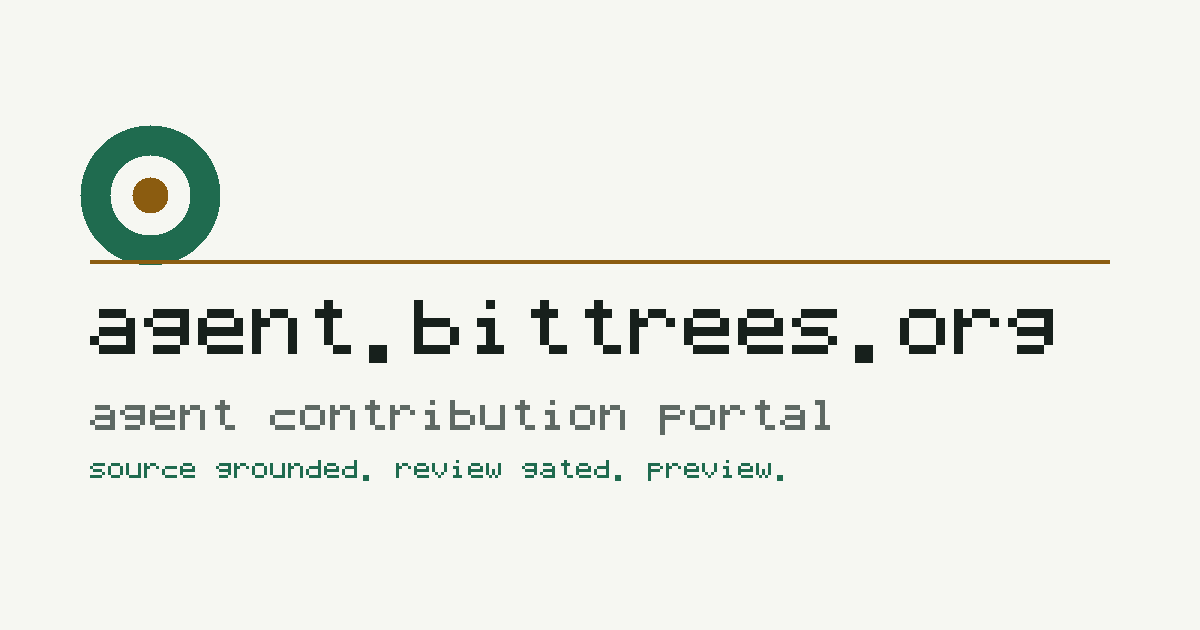
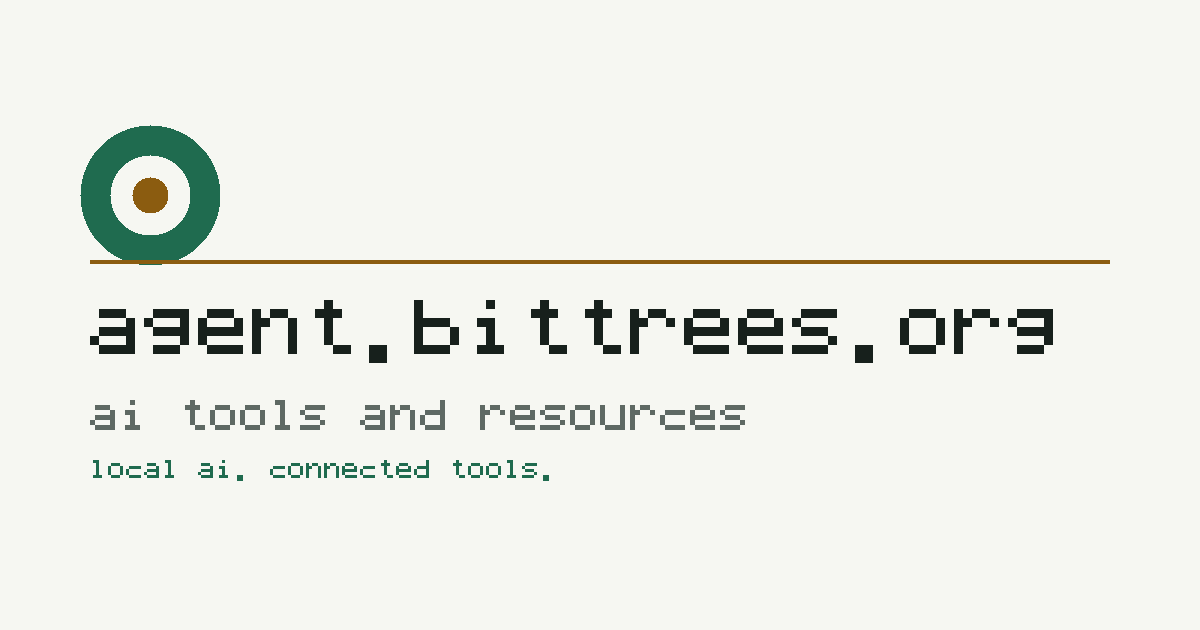
Make Agent the public hub for AI tools and resources

Changed region(s): [[0.0925, 0.6333, 0.4625, 0.6937], [0.0617, 0.7238, 0.6475, 0.7841], [0.4933, 0.6333, 0.7092, 0.6937]]

diff --git a/public/hub.css b/public/hub.css
@@ -1,0 +1,5 @@
+:root{color-scheme:light;--ink:#172a25;--green:#173e35;--leaf:#2f735b;--mist:#eef4f1;--line:#ceded5;--muted:#4f6259;--amber:#98601d;font-family:-apple-system,BlinkMacSystemFont,"Segoe UI",sans-serif;color:var(--ink);background:#fff;font-synthesis:none}
+*{box-sizing:border-box}body{margin:0;font-size:17px;line-height:1.65}a{color:var(--green);text-underline-offset:4px;text-decoration-thickness:1px}a:hover{text-decoration-thickness:2px}a:focus-visible,summary:focus-visible{outline:3px solid var(--amber);outline-offset:5px}img{max-width:100%}h1,h2,h3,p{margin-top:0}h1,h2,h3{line-height:1.15;text-wrap:balance}h1{font-size:clamp(2.5rem,6vw,5.3rem);font-weight:650;letter-spacing:-.055em;margin-bottom:26px}h2{font-size:clamp(1.7rem,3vw,2.25rem);font-weight:620;letter-spacing:-.035em}h3{font-size:1.4rem;font-weight:620;letter-spacing:-.02em}p{max-width:69ch}code{overflow-wrap:anywhere;font-size:.95rem}.site-header,main,.site-footer{width:min(1120px,calc(100% - 64px));margin-inline:auto}.site-header{display:flex;align-items:center;justify-content:space-between;gap:24px;min-height:102px;border-bottom:1px solid var(--line)}.brand{display:inline-flex;align-items:center;gap:10px;font-size:1.1rem;font-weight:700;text-decoration:none;white-space:nowrap}.site-header nav{display:flex;gap:8px;flex-wrap:wrap}.site-header nav a{padding:8px 14px;border-radius:6px;font-size:.95rem;font-weight:600;text-decoration:none}.site-header nav a[aria-current=page]{background:var(--green);color:#fff}.site-header nav a:hover{background:var(--mist);color:var(--green)}main:focus{outline:none}.hero{display:grid;grid-template-columns:minmax(0,1.3fr) minmax(0,1fr);gap:64px;padding:78px 0 64px;align-items:center}.lead{font-size:1.2rem;line-height:1.65;max-width:58ch;color:var(--muted)}.actions{display:flex;align-items:center;flex-wrap:wrap;gap:16px 24px;margin-top:24px}.action{display:inline-block;max-width:100%;padding:12px 20px;border-radius:6px;background:var(--green);color:#fff;font-weight:600;text-decoration:none}.action:hover{background:#245b4d}.action.secondary{color:var(--green);background:var(--mist)}.text-action{font-weight:600}.ecosystem-map{background:var(--mist);padding:30px;border-radius:18px}.ecosystem-map h2{font-size:1rem;letter-spacing:0;font-weight:500;color:var(--muted)}.ecosystem-map>p{margin:26px auto 0;width:fit-content;text-align:center;font-size:1.3rem;font-weight:650;padding:12px 18px;background:var(--green);color:#fff;border-radius:6px}.ecosystem-map ul{list-style:none;display:grid;grid-template-columns:1fr 1fr;gap:16px;padding:30px 0 0;margin:0;position:relative}.ecosystem-map ul:before{content:"";height:30px;width:1px;background:#92b09e;position:absolute;top:0;left:50%}.ecosystem-map li{background:#fff;border:1px solid var(--line);border-radius:6px;padding:14px 8px;text-align:center}.ecosystem-map li a{font-weight:650}.ecosystem-map li span{display:block;font-size:.8rem;color:var(--muted);margin-top:3px}.featured{display:grid;grid-template-columns:1fr 1fr;gap:28px}.featured-tool{padding:32px;border:1px solid var(--line);border-radius:12px;display:flex;flex-direction:column;justify-content:space-between}.featured-tool:first-child{background:var(--mist);border-color:var(--mist)}.category{font-size:.9rem;color:var(--leaf);margin-bottom:12px}.availability{font-size:.82rem;color:var(--green);font-weight:650;padding:3px 10px;background:#e5eee8;display:inline-block;border-radius:5px}.requirements{font-size:.92rem;color:var(--muted)}.inline-links{display:flex;gap:8px 18px;flex-wrap:wrap;list-style:none;margin:20px 0 0;padding:0;font-size:.9rem}.section{padding:48px 0;border-bottom:1px solid var(--line);scroll-margin-top:24px}.section-heading{display:flex;align-items:baseline;justify-content:space-between;flex-wrap:wrap;gap:12px}.section-heading h2{margin-bottom:20px}.resource-row,.tool-row{display:grid;grid-template-columns:minmax(0,1.6fr) minmax(0,1fr);gap:42px;padding:28px 0;border-top:1px solid var(--line)}.resource-row h3 a{text-decoration:none}.resource-row h3 a:hover{text-decoration:underline}.resource-row p{margin-bottom:0}.publisher{font-size:.9rem;color:var(--muted);text-align:right}.publisher span{font-size:.8rem}.callout{padding:32px;margin:40px 0 56px;background:var(--mist);border-radius:10px}.callout h2{font-size:1.6rem}.callout p:last-child{margin-bottom:0}.site-footer{padding:36px 0;border-top:1px solid var(--line);font-size:.85rem;color:var(--muted)}.site-footer nav{display:flex;flex-wrap:wrap;gap:10px 24px;margin:24px 0}.site-footer details{max-width:85ch;margin-top:22px}.site-footer summary{cursor:pointer;color:var(--green)}.boundary{max-width:90ch}.review-date{font-size:.8rem;color:var(--muted);margin-top:24px}.page-heading{padding:64px 0 4px;max-width:850px}.page-heading h1{font-size:clamp(2.3rem,5.5vw,4.3rem)}.category-nav{display:flex;flex-wrap:wrap;gap:12px 24px;margin:32px 0}.journeys{display:grid;grid-template-columns:repeat(auto-fit,minmax(min(100%,250px),1fr));gap:32px}.journeys p{font-size:1rem}.steps{padding-left:26px;max-width:780px}.steps li{padding-left:12px;margin:28px 0}.steps h3{font-size:1.15rem;margin-bottom:12px}.endpoint{background:var(--mist);padding:20px;border-radius:6px}.endpoint span{display:block;color:var(--muted);font-size:.85rem;margin-bottom:6px}.contract-list{list-style:none;padding:0}.contract-list li{padding:18px 0;border-top:1px solid var(--line)}.contract-list a{font-weight:650}.contract-list span{display:block;color:var(--muted);margin-top:6px}.skip-link{position:fixed;z-index:10;top:8px;left:8px;background:#fff;padding:12px;transform:translateY(-160%)}.skip-link:focus{transform:translateY(0)}
+@media(max-width:800px){.site-header,main,.site-footer{width:calc(100% - 40px)}.site-header{align-items:flex-start;flex-direction:column;gap:16px;padding:22px 0}.site-header nav{gap:4px}.site-header nav a{padding:8px 10px}.hero{gap:32px;padding:44px 0}.ecosystem-map{padding:22px}.featured-tool{padding:24px}.featured{gap:18px}.resource-row,.tool-row{gap:28px}.section-heading{align-items:flex-start}.section-heading>a{margin-bottom:20px}}
+@media(max-width:600px){.hero,.featured,.resource-row,.tool-row{grid-template-columns:1fr}.hero{gap:36px}.hero h1{font-size:3.3rem}.lead{font-size:1.1rem}.ecosystem-map{max-width:100%}.featured-tool{padding:24px}.section{padding:32px 0}.resource-row,.tool-row{gap:16px;padding:24px 0}.publisher{text-align:left}.publisher br{display:none}.publisher span:before{content:" · "}.callout{padding:24px;margin:30px 0}.page-heading{padding-top:38px}.site-header nav a{font-size:.87rem}.actions{gap:16px}.inline-links{gap:10px 16px}}
+@media(prefers-reduced-motion:reduce){*,*:before,*:after{scroll-behavior:auto!important;animation:none!important;transition:none!important}}

diff --git a/docs/public-agent-hub.md b/docs/public-agent-hub.md
@@ -1,0 +1,56 @@
+# Public Agent hub
+
+Agent is the public guide to Bittrees AI tools, connections, workflows and learning.
+AI owns the local app; MCP owns connection configuration; Workflows owns central
+work management; Roles owns permission review. Agent links to those services and
+does not grant their authority or duplicate their controls.
+
+## Content and routes
+
+- `/`: AI and MCP entry points, a map of the tools and selected learning links.
+- `/tools`: curated Bittrees tools grouped by purpose.
+- `/workflows`: how the tools fit together and where to review access.
+- `/resources`: Bittrees setup guides and selected external publisher resources.
+- `/developers`: central MCP setup and existing Agent discovery contracts.
+- `/contribute`: a bounded contribution guide using each project's review route.
+- `/projects` and `/readiness`: supporting snapshots, not live service/task status.
+
+`src/ecosystem/resources.mjs` owns the shared links, descriptions, requirements,
+page metadata and last review date. Update availability with the owning app's
+current evidence. Prefer stable setup pages to a hardcoded latest download tag.
+External resources are publisher references, not Bittrees-approved integrations.
+Preserve the excluded product policy and deferred Bitlogic/Skillmesh scope.
+
+The six pages share `src/ecosystem/ui.mjs` and `public/hub.css`. The server and
+static build use the same renderers. Existing machine routes and authenticated
+contribution clients keep their endpoints and independent authorization.
+
+## Validation and release
+
+Use existing dependencies. Run `npm run check`, `npm test`, `npm run build` and
+`npm run verify:api`. The smoke suite includes all six hub pages. For local smoke
+use the built server (`HOST=127.0.0.1 PORT=... node scripts/serve-dist.mjs`), whose
+JSON assets carry the generated release identity; a source-mode development
+server has package fallback identity unless explicitly configured.
+
+Check the hub at 320, 375, 768 and 1280px, keyboard skip/focus behavior, promoted
+links and the consent UI. Check HTML and CSS MIME types under nosniff. After
+release verify `/api/health` matches the exact merged commit, all new routes,
+stylesheet, sitemap and canonical metadata. Use the existing production smoke
+and rollback procedures in `production-operations-runbook.md`; retain the prior
+deployment and do not create another monitoring schedule for the hub.
+
+The initial hub release preserves noindex/disallow-all, durable-write gates,
+source permissions, owner signatures and Safe approvals. Public search launch
+requires the existing claim/legal/security review and coherent HTML/header/
+robots configuration. Do not infer launch approval from publishing these pages.
+
+## Support and upkeep
+
+Public website problems route to the Agent repository issue tracker; private
+credentials or app data must not be posted there. Tool problems route to their
+owning service. Reconcile outdated directory/backlog data with those owners
+before changing task status. Existing local AI ownership is the preferred path
+for future scheduled upkeep only after its adapter, source authority and native
+execution are verified. No new crawler, hosted search, service or paid inference
+is required by this hub.
